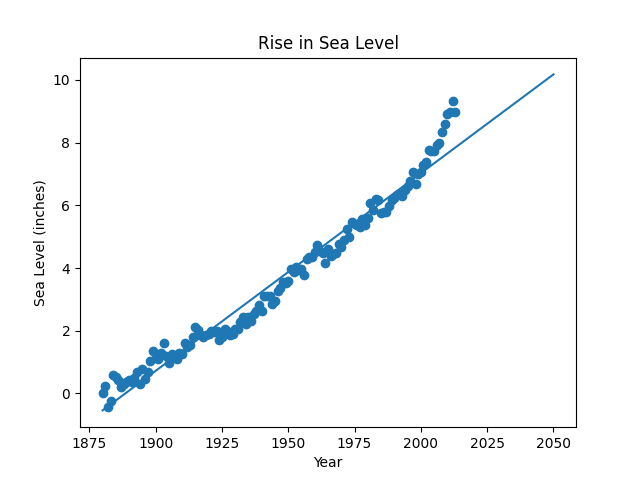
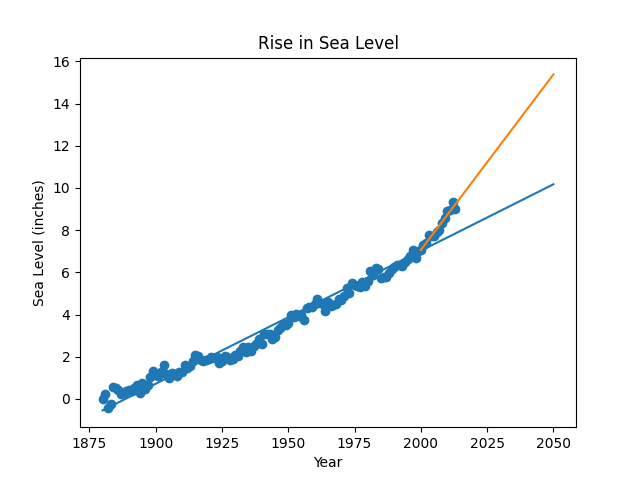
feat: added second line of fit

diff --git a/sea_level_predictor.py b/sea_level_predictor.py
@@ -29,7 +29,24 @@ def draw_plot():
     plt.plot(x, y)
 
     # Create second line of best fit
+    trunc_data = data[data['Year'] >= 2000]
+    trunc_year = trunc_data['Year']
+    trunc_sea_level = trunc_data['CSIRO Adjusted Sea Level']
+    
+    line_two = linregress(trunc_year, trunc_sea_level)
+    slope = line_two.slope
+    intercept = line_two.intercept
 
+    left_x = 2000
+    left_y = slope * left_x + intercept
+
+    right_x = 2050
+    right_y = slope * right_x + intercept
+
+    x = [left_x,right_x]
+    y = [left_y,right_y]
+
+    plt.plot(x, y)
 
     # Add labels and title
     plt.xlabel('Year')
